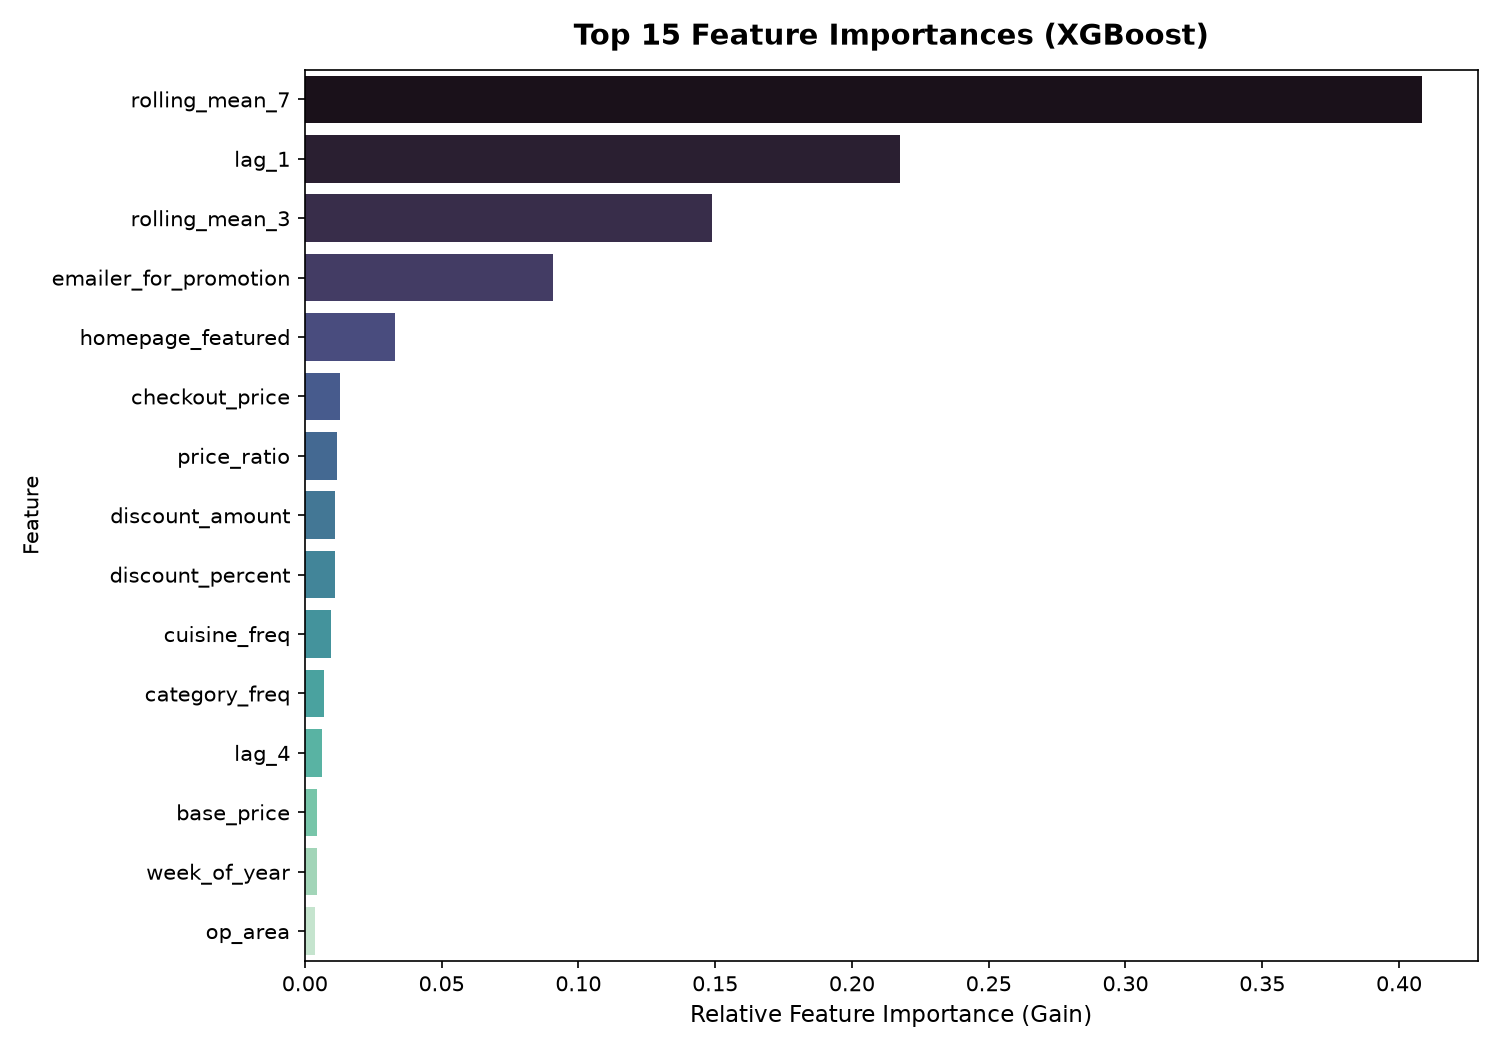
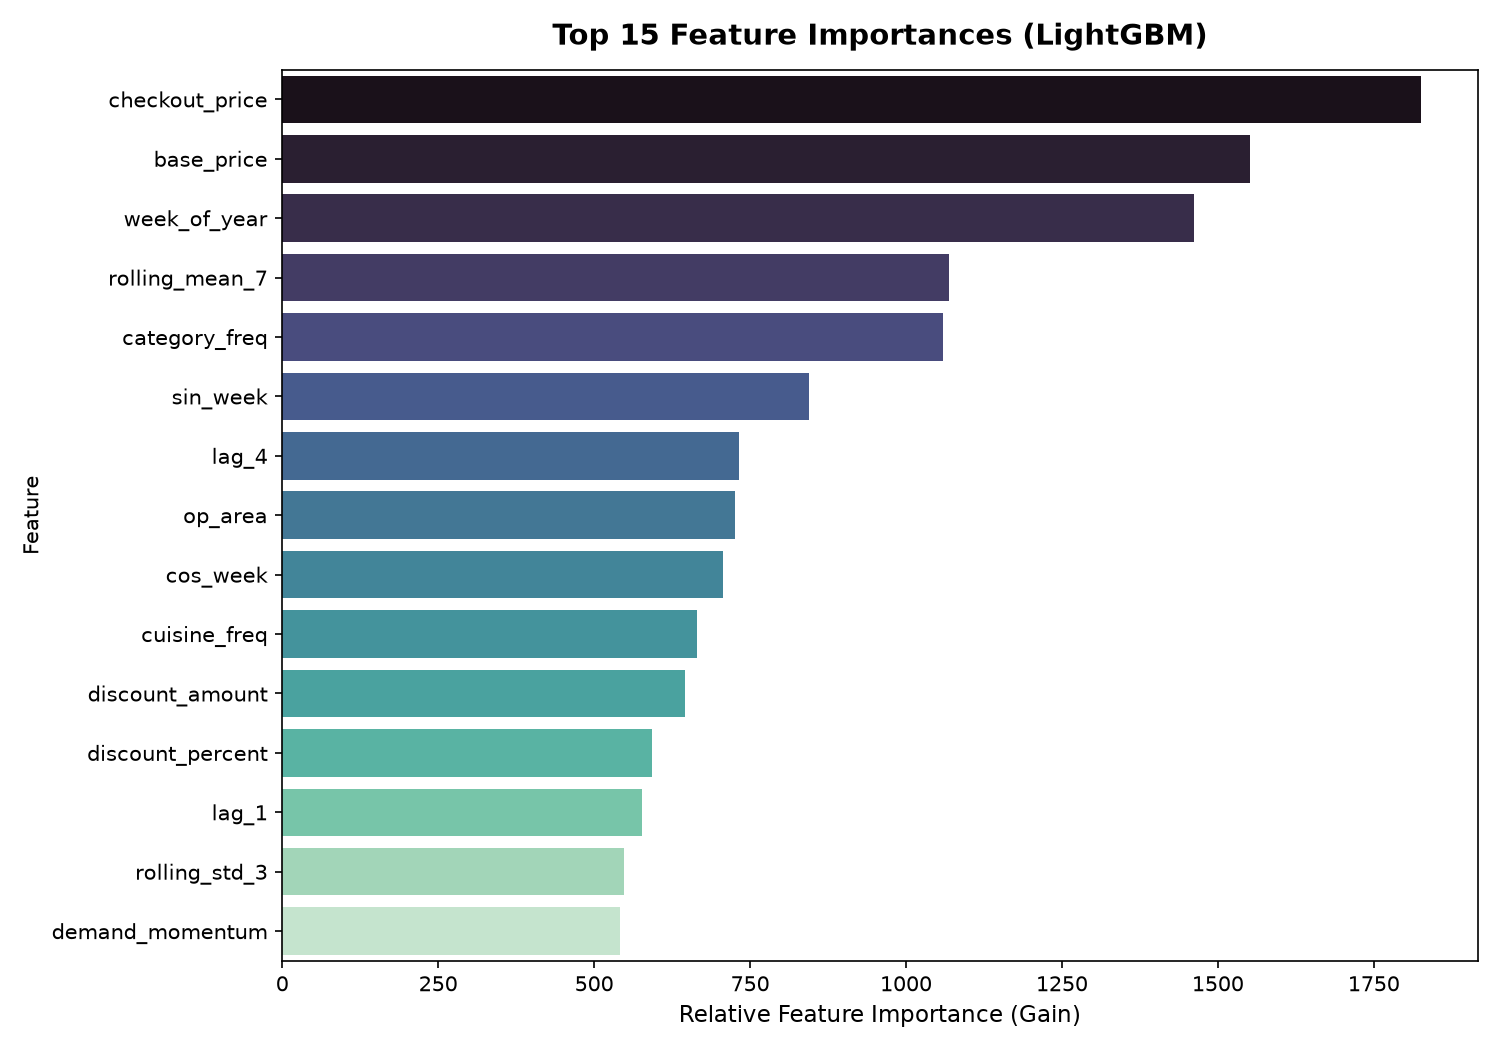
changed ML algorithm

diff --git a/src/models/train.py b/src/models/train.py
@@ -1,6 +1,6 @@
 """
 Model Training and Evaluation Pipeline.
-Trains an XGBoost regressor with log-transformed targets,
+Trains a LightGBM regressor with log-transformed targets,
 benchmarks against the 7-week moving average baseline,
 computes production metrics, and persists artifacts.
 """
@@ -11,7 +11,7 @@ import json
 import joblib
 import pandas as pd
 import numpy as np
-import xgboost as xgb
+import lightgbm as lgb
 import matplotlib
 matplotlib.use("Agg")
 import matplotlib.pyplot as plt
@@ -63,7 +63,7 @@ def train_and_evaluate_models() -> dict:
     Executes the training workflow:
     1. Loads features
     2. Runs Baseline Benchmark
-    3. Trains XGBoost Regressor
+    3. Trains LightGBM Regressor
     4. Computes test metrics & comparison table
     5. Saves model and visualizations
     """
@@ -83,7 +83,7 @@ def train_and_evaluate_models() -> dict:
     baseline_results = evaluate_baseline(val_df, test_df)
 
     # 3. Prepare Feature Matrices and Log-Transformed Targets
-    logger.info("Preparing feature matrices for XGBoost...")
+    logger.info("Preparing feature matrices for LightGBM...")
     X_train = train_df[FEATURE_COLUMNS]
     y_train_log = np.log1p(train_df["num_orders"].values)
 
@@ -93,27 +93,29 @@ def train_and_evaluate_models() -> dict:
     X_test = test_df[FEATURE_COLUMNS]
     y_test_actual = test_df["num_orders"].values
 
-    # 4. Instantiate and Train XGBoost Regressor
-    logger.info("Training XGBoost Regressor with early stopping...")
-    model = xgb.XGBRegressor(
+        # 4. Instantiate and Train LightGBM Regressor
+    logger.info("Training LightGBM Regressor with early stopping...")
+    model = lgb.LGBMRegressor(
         n_estimators=300,
         learning_rate=0.08,
         max_depth=6,
+        num_leaves=63,
         subsample=0.8,
         colsample_bytree=0.8,
         random_state=42,
         n_jobs=-1,
-        early_stopping_rounds=25,
-        eval_metric="rmse",
     )
 
     model.fit(
         X_train,
         y_train_log,
         eval_set=[(X_val, y_val_log)],
-        verbose=50,
+        callbacks=[
+            lgb.early_stopping(stopping_rounds=25, verbose=False),
+            lgb.log_evaluation(period=-1),
+        ],
     )
-    logger.info(f"Training completed. Best iteration: {model.best_iteration}")
+    logger.info(f"Training completed. Best iteration: {model.best_iteration_}")
 
     # 5. Invert Predictions to Original Unit Scale
     logger.info("Generating predictions and converting back to natural demand scale...")
@@ -125,7 +127,7 @@ def train_and_evaluate_models() -> dict:
     test_pred = np.maximum(0.0, np.expm1(test_pred_log))
     test_metrics = compute_metrics(y_test_actual, test_pred)
 
-    logger.info(f"XGBoost Test Metrics: MAE={test_metrics['MAE']}, RMSE={test_metrics['RMSE']}, MAPE={test_metrics['MAPE']}%")
+    logger.info(f"LightGBM Test Metrics: MAE={test_metrics['MAE']}, RMSE={test_metrics['RMSE']}, MAPE={test_metrics['MAPE']}%")
 
     # 6. Save Trained Model Artifact
     logger.info(f"Persisting model artifact to {MODEL_FILE}...")
@@ -133,7 +135,7 @@ def train_and_evaluate_models() -> dict:
         "model": model,
         "feature_names": FEATURE_COLUMNS,
         "metrics": test_metrics,
-        "best_iteration": int(model.best_iteration),
+        "best_iteration": int(model.best_iteration_),
     }
     joblib.dump(model_payload, MODEL_FILE)
     logger.info("Model artifact successfully saved.")
@@ -163,7 +165,7 @@ def train_and_evaluate_models() -> dict:
     }).sort_values(by="Importance", ascending=False)
     
     sns.barplot(data=importance_df.head(15), x="Importance", y="Feature", palette="mako")
-    plt.title("Top 15 Feature Importances (XGBoost)", fontsize=14, fontweight="bold", pad=12)
+    plt.title("Top 15 Feature Importances (LightGBM)", fontsize=14, fontweight="bold", pad=12)
     plt.xlabel("Relative Feature Importance (Gain)", fontsize=11)
     plt.tight_layout()
     plt.savefig(FIGURES_DIR / "7_feature_importance.png")
@@ -174,7 +176,7 @@ def train_and_evaluate_models() -> dict:
     sample_indices = np.random.RandomState(42).choice(len(y_test_actual), size=min(100, len(y_test_actual)), replace=False)
     sample_indices = np.sort(sample_indices)
     plt.plot(range(len(sample_indices)), y_test_actual[sample_indices], label="Actual Demand", color="#1f77b4", marker="o", markersize=4, lw=1.5)
-    plt.plot(range(len(sample_indices)), test_pred[sample_indices], label="XGBoost Predicted", color="#ff7f0e", marker="x", markersize=4, linestyle="--", lw=1.5)
+    plt.plot(range(len(sample_indices)), test_pred[sample_indices], label="LightGBM Predicted", color="#ff7f0e", marker="x", markersize=4, linestyle="--", lw=1.5)
     plt.title("Actual vs. Predicted Demand (Held-Out Test Sample)", fontsize=13, fontweight="bold", pad=12)
     plt.xlabel("Sample Index", fontsize=11)
     plt.ylabel("Food Orders", fontsize=11)
@@ -193,9 +195,9 @@ if __name__ == "__main__":
     print("      FINAL MODEL COMPARISON RESULTS      ")
     print("==========================================")
     print(f"Baseline Test MAE:  {results['baseline_test']['MAE']}")
-    print(f"XGBoost Test MAE:   {results['xgboost_test']['MAE']} (Reduced by {results['improvement_pct']['MAE_reduction']}%)")
-    print(f"Baseline Test RMSE: {results['baseline_test']['RMSE']}")
-    print(f"XGBoost Test RMSE:  {results['xgboost_test']['RMSE']} (Reduced by {results['improvement_pct']['RMSE_reduction']}%)")
-    print(f"Baseline Test MAPE: {results['baseline_test']['MAPE']}%")
-    print(f"XGBoost Test MAPE:  {results['xgboost_test']['MAPE']}% (Reduced by {results['improvement_pct']['MAPE_reduction']}%)")
+    print(f"LightGBM Test MAE:   {results['xgboost_test']['MAE']} (Reduced by {results['improvement_pct']['MAE_reduction']}%)")
+    print(f"Baseline Test RMSE:  {results['baseline_test']['RMSE']}")
+    print(f"LightGBM Test RMSE:  {results['xgboost_test']['RMSE']} (Reduced by {results['improvement_pct']['RMSE_reduction']}%)")
+    print(f"Baseline Test MAPE:  {results['baseline_test']['MAPE']}%")
+    print(f"LightGBM Test MAPE:  {results['xgboost_test']['MAPE']}% (Reduced by {results['improvement_pct']['MAPE_reduction']}%)")
     print("==========================================")

diff --git a/dashboard/app.py b/dashboard/app.py
@@ -27,33 +27,77 @@ st.set_page_config(
     initial_sidebar_state="expanded"
 )
 
-# Dark Theme CSS
+# Minimal black theme with subtle glass surfaces
 st.markdown("""
 <style>
-    .stApp { background-color: #0e1117; color: #f1f5f9; }
-    section[data-testid="stSidebar"] { background-color: #161a23; border-right: 1px solid #232838; }
+    :root {
+        --page: #000000;
+        --surface: rgba(255, 255, 255, 0.035);
+        --surface-hover: rgba(255, 255, 255, 0.075);
+        --line: rgba(255, 255, 255, 0.11);
+        --text: #ececec;
+        --muted: #9b9b9b;
+        --accent: #10a37f;
+    }
+    .stApp, [data-testid="stAppViewContainer"], [data-testid="stHeader"] {
+        background: var(--page); color: var(--text);
+    }
+    [data-testid="stHeader"] { background: rgba(0, 0, 0, 0.82); }
+    .block-container { max-width: 1440px; padding-top: 2rem; padding-bottom: 3rem; }
+    section[data-testid="stSidebar"] {
+        background: rgba(10, 10, 10, 0.9);
+        border-right: 1px solid var(--line);
+    }
+    section[data-testid="stSidebar"] > div { background: transparent; }
+    h1, h2, h3, h4, p, label, [data-testid="stMarkdownContainer"] { color: var(--text); }
+    [data-testid="stCaptionContainer"], small { color: var(--muted) !important; }
+    [data-testid="stMetric"] {
+        background: var(--surface); border: 1px solid var(--line);
+        border-radius: 12px; padding: 1rem 1.1rem;
+    }
+    [data-testid="stMetricLabel"] { color: var(--muted) !important; }
+    [data-testid="stMetricValue"] { color: var(--text) !important; }
+    [data-testid="stRadio"] > div { gap: 0.35rem; }
+    [data-testid="stRadio"] label {
+        border: 1px solid var(--line); border-radius: 999px;
+        background: var(--surface); padding: 0.45rem 0.85rem;
+    }
+    [data-testid="stRadio"] label:hover { background: var(--surface-hover); }
+    [data-testid="stSelectbox"] [data-baseweb="select"] > div,
+    [data-testid="stNumberInput"] input, [data-testid="stDateInput"] input {
+        background: rgba(255, 255, 255, 0.045); color: var(--text);
+        border-color: var(--line); border-radius: 9px;
+    }
+    [data-testid="stExpander"] {
+        background: var(--surface); border: 1px solid var(--line); border-radius: 12px;
+    }
+    [data-testid="stDataFrame"] { border: 1px solid var(--line); border-radius: 10px; }
+    hr { border-color: var(--line); }
     div.stButton > button:first-child {
-        background-color: #ef4444; color: white; border: none;
-        border-radius: 6px; padding: 0.5rem 1.8rem;
-        font-weight: 600; font-size: 1rem; transition: all 0.2s ease;
+        background: var(--accent); color: white; border: 1px solid var(--accent);
+        border-radius: 9px; padding: 0.55rem 1.2rem;
+        font-weight: 600; font-size: 0.95rem; transition: all 0.2s ease;
     }
     div.stButton > button:first-child:hover {
-        background-color: #dc2626; box-shadow: 0 4px 12px rgba(239,68,68,0.3);
+        background: #0b8c6d; border-color: #0b8c6d;
     }
     .metric-box {
-        background-color: #1a1e2b; border: 1px solid #282f44;
-        border-radius: 8px; padding: 16px; margin-top: 8px;
+        background: var(--surface); border: 1px solid var(--line);
+        border-radius: 12px; padding: 18px; margin-top: 10px;
     }
-    .metric-value { font-size: 26px; font-weight: 700; color: #38bdf8; }
-    .metric-label { font-size: 12px; color: #94a3b8; text-transform: uppercase; letter-spacing: 0.5px; }
+    .metric-value { font-size: 26px; font-weight: 700; color: #f5f5f5; }
+    .metric-label { font-size: 11px; color: var(--muted); text-transform: uppercase; letter-spacing: 0.7px; }
     .day-card {
-        background-color: #1a1e2b; border: 1px solid #282f44; border-radius: 8px;
-        padding: 12px 10px; text-align: center; margin: 4px;
+        background: var(--surface); border: 1px solid var(--line); border-radius: 12px;
+        padding: 14px 10px; text-align: center; margin: 4px;
     }
-    .day-name { font-size: 12px; color: #64748b; font-weight: 600; letter-spacing: 0.5px; }
-    .day-date { font-size: 11px; color: #475569; margin-bottom: 6px; }
-    .day-demand { font-size: 22px; font-weight: 700; color: #38bdf8; }
-    .day-unit { font-size: 11px; color: #64748b; }
+    .day-name { font-size: 12px; color: #d4d4d4; font-weight: 600; letter-spacing: 0.3px; }
+    .day-date { font-size: 11px; color: var(--muted); margin-bottom: 6px; }
+    .day-demand { font-size: 22px; font-weight: 700; color: #f5f5f5; }
+    .day-unit { font-size: 11px; color: var(--muted); }
+    @media (max-width: 700px) {
+        .block-container { padding: 1rem 1rem 2rem; }
+    }
 </style>
 """, unsafe_allow_html=True)
 
@@ -233,7 +277,7 @@ if nav_tab == "📈 Demand Forecasting":
                     fig.add_trace(go.Scatter(x=[series["week"].iloc[-1], p["week"]], y=[series["num_orders"].iloc[-1], p["pred"]],
                         mode="lines", line=dict(color="#ef4444", width=2, dash="dot"), showlegend=False))
         fig.update_layout(
-            paper_bgcolor="#0e1117", plot_bgcolor="#0e1117",
+            paper_bgcolor="#000000", plot_bgcolor="#000000",
             margin=dict(l=40, r=20, t=20, b=40),
             xaxis=dict(title="week", tickfont=dict(color="#94a3b8"), showgrid=True, gridcolor="#1e293b", dtick=10),
             yaxis=dict(title="Historical orders", tickfont=dict(color="#94a3b8"), showgrid=True, gridcolor="#1e293b"),
@@ -364,7 +408,7 @@ elif nav_tab == "📅 Day-by-Day Forecast":
             marker=dict(size=5)
         ))
         fig2.update_layout(
-            paper_bgcolor="#0e1117", plot_bgcolor="#0e1117",
+            paper_bgcolor="#000000", plot_bgcolor="#000000",
             margin=dict(l=30, r=20, t=20, b=60),
             xaxis=dict(tickfont=dict(color="#94a3b8", size=10), showgrid=False),
             yaxis=dict(title="Portions Required", tickfont=dict(color="#94a3b8"), showgrid=True, gridcolor="#1e293b"),
